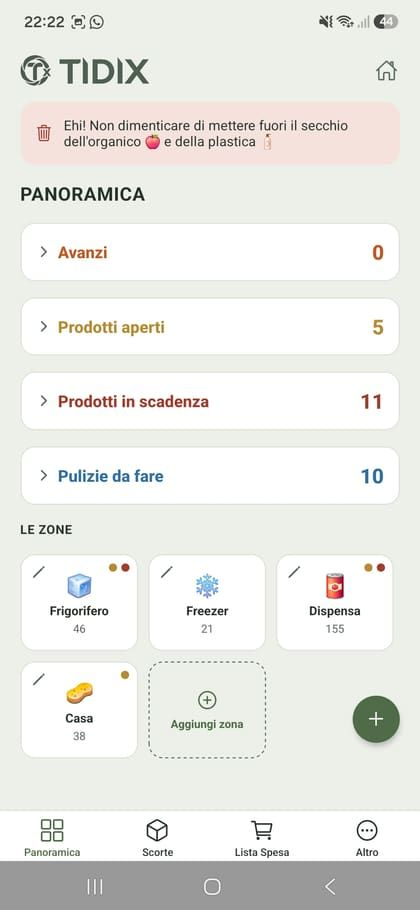
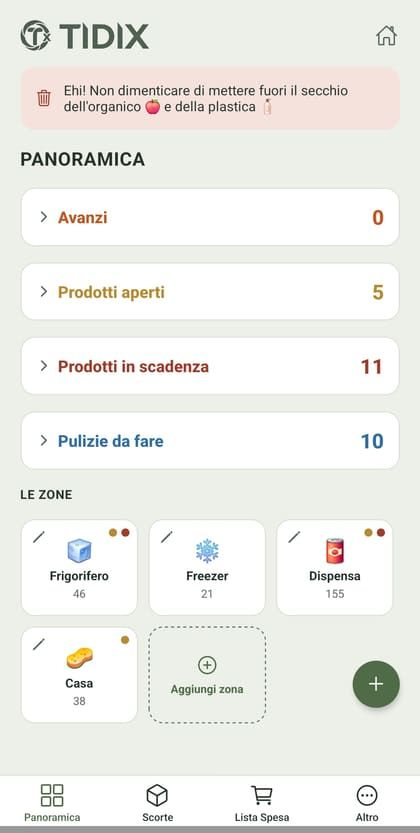
Screenshot per Gesti rapidi/Scorte/Lista spesa, taglio barra di stato (#212)
- Tolta barra di stato Android (orologio/icone) e barra di navigazione
  da TUTTI gli screenshot della guida (anche quelli gia' presenti,
  Panoramica e Aggiungi al volo): restava visibile il "contorno" del
  telefono invece della sola schermata dell'app.
- Nuove immagini chiaro/scuro per le slide "Gesti rapidi" (swipe con
  eliminazione mostrata), "Scorte" (swipe per aggiungere alla lista
  della spesa) e "Lista della spesa" (swipe per segnare acquistato).
- Testo della slide "Gesti rapidi" riscritto: lo swipe verso sinistra
  elimina sempre (con conferma), quello verso destra varia per
  schermata - ora elencate tutte le combinazioni reali (Panoramica,
  Scorte, Lista della spesa, Scansione scontrino, Acquistati, Pulizie,
  Spese, Saldi, Famiglia), verificate nel codice di ogni schermata.
- Aggiunti anche gli screenshot di "Acquistati" (chiaro/scuro), non
  ancora agganciati a una slide.

Claude-Session: https://claude.ai/code/session_0124KDiTTkTm4SeJm2jJDzTH

diff --git a/src/i18n/translations.ts b/src/i18n/translations.ts
@@ -1105,9 +1105,9 @@ const ENTRIES: Record<string, EntryTriple> = {
   },
   'household.guide.swipe.title': { it: 'Gesti rapidi', en: 'Quick gestures', es: 'Gestos rápidos' },
   'household.guide.swipe.body': {
-    it: "In molte liste (Scorte, Lista della spesa, Pulizie, Rifiuti...) puoi scorrere una riga verso sinistra o destra per azioni rapide, come eliminare o segnare qualcosa come fatto, senza aprire il dettaglio. Se l'azione cambia subito qualcosa ti viene chiesta conferma prima di eseguirla.",
-    en: "In many lists (Stock, Shopping list, Cleaning, Waste...) you can swipe a row left or right for quick actions, like deleting or marking something as done, without opening its details. If the action changes something right away, you'll be asked to confirm first.",
-    es: 'En muchas listas (Existencias, Lista de la compra, Limpieza, Residuos...) puedes deslizar una fila hacia la izquierda o la derecha para acciones rápidas, como eliminar o marcar algo como hecho, sin abrir el detalle. Si la acción cambia algo de inmediato, se te pedirá confirmación antes.',
+    it: 'Lo swipe verso sinistra elimina sempre la riga (con conferma). Quello verso destra invece varia per schermata: in Panoramica apre il dettaglio del prodotto o segna una pulizia come fatta; in Scorte aggiunge alla lista della spesa; in Lista della spesa e nella scansione scontrino segna come acquistato; in Acquistati aggiunge alle scorte; in Pulizie segna come fatta; in Spese apre il dettaglio; nei Saldi modifica; in Famiglia rende amministratore.',
+    en: "Swiping left always deletes the row (with confirmation). Swiping right varies by screen instead: in Overview it opens the product's details or marks a cleaning task as done; in Stock it adds to the shopping list; in Shopping list and receipt scan it marks as purchased; in Purchased it adds to stock; in Cleaning it marks as done; in Expenses it opens the details; in Settlements it edits; in Household it makes someone an admin.",
+    es: 'Deslizar hacia la izquierda siempre elimina la fila (con confirmación). Deslizar hacia la derecha varía según la pantalla: en Panorama abre el detalle del producto o marca una limpieza como hecha; en Existencias añade a la lista de la compra; en Lista de la compra y en el escaneo de recibo marca como comprado; en Comprados añade a las existencias; en Limpieza marca como hecha; en Gastos abre el detalle; en Saldos edita; en Familia hace administrador.',
   },
   'household.guide.stock.title': { it: 'Scorte', en: 'Stock', es: 'Existencias' },
   'household.guide.stock.body': {

diff --git a/app/(app)/household.tsx b/app/(app)/household.tsx
@@ -86,9 +86,33 @@ const GUIDE_SLIDES: GuideSlideDef[] = [
     imageLight: require('../../assets/guide/quick-add-light.jpg'),
     imageDark: require('../../assets/guide/quick-add-dark.jpg'),
   },
-  { key: 'swipe', icon: 'swap-horizontal-outline', badgeIcon: 'checkmark-circle-outline', titleKey: 'household.guide.swipe.title', bodyKey: 'household.guide.swipe.body' },
-  { key: 'stock', icon: 'cube-outline', badgeIcon: 'add-circle-outline', titleKey: 'household.guide.stock.title', bodyKey: 'household.guide.stock.body' },
-  { key: 'shopping', icon: 'cart-outline', badgeIcon: 'checkmark-done-outline', titleKey: 'household.guide.shopping.title', bodyKey: 'household.guide.shopping.body' },
+  {
+    key: 'swipe',
+    icon: 'swap-horizontal-outline',
+    badgeIcon: 'checkmark-circle-outline',
+    titleKey: 'household.guide.swipe.title',
+    bodyKey: 'household.guide.swipe.body',
+    imageLight: require('../../assets/guide/swipe-light.jpg'),
+    imageDark: require('../../assets/guide/swipe-dark.jpg'),
+  },
+  {
+    key: 'stock',
+    icon: 'cube-outline',
+    badgeIcon: 'add-circle-outline',
+    titleKey: 'household.guide.stock.title',
+    bodyKey: 'household.guide.stock.body',
+    imageLight: require('../../assets/guide/stock-light.jpg'),
+    imageDark: require('../../assets/guide/stock-dark.jpg'),
+  },
+  {
+    key: 'shopping',
+    icon: 'cart-outline',
+    badgeIcon: 'checkmark-done-outline',
+    titleKey: 'household.guide.shopping.title',
+    bodyKey: 'household.guide.shopping.body',
+    imageLight: require('../../assets/guide/shopping-light.jpg'),
+    imageDark: require('../../assets/guide/shopping-dark.jpg'),
+  },
   { key: 'receiptScan', icon: 'receipt-outline', badgeIcon: 'camera-outline', titleKey: 'household.guide.receiptScan.title', bodyKey: 'household.guide.receiptScan.body' },
   { key: 'productScan', icon: 'pricetag-outline', badgeIcon: 'camera-outline', titleKey: 'household.guide.productScan.title', bodyKey: 'household.guide.productScan.body' },
   { key: 'cleaning', icon: 'sparkles-outline', badgeIcon: 'calendar-outline', titleKey: 'household.guide.cleaning.title', bodyKey: 'household.guide.cleaning.body' },
